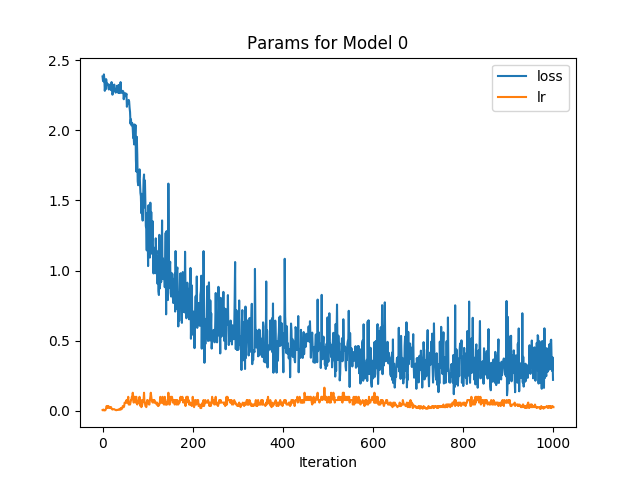
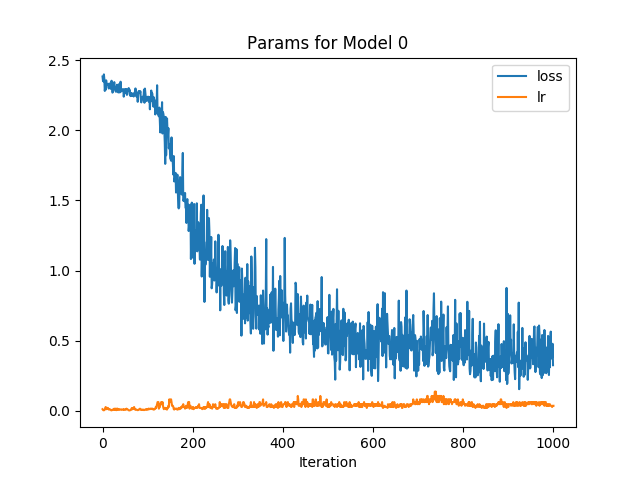
finally fixed;

Changed region(s): [[0.1562, 0.1562, 0.875, 0.875]]

diff --git a/runner.py b/runner.py
@@ -10,7 +10,8 @@ sweep_vals = [0.000001, 0.00001, 0.0001, 0.001, 0.01, 0.03, 0.05, 0.08, 0.1, 0.2
               0.5, 1, 5, 10]
 final_losses = []
 
-g.train(schedule=[(200,31,5),(200,21,5),(200,13,4),(200,8,3),(200,8,7)])
+# g.train(schedule=[(200,31,5),(200,21,5),(200,13,4),(200,8,3),(200,8,7)])
+g.train(1000)
 winner = g.models[0].id
 g.vis_global_params(root='schedule')
 g.vis_individual_params(root='schedule')
